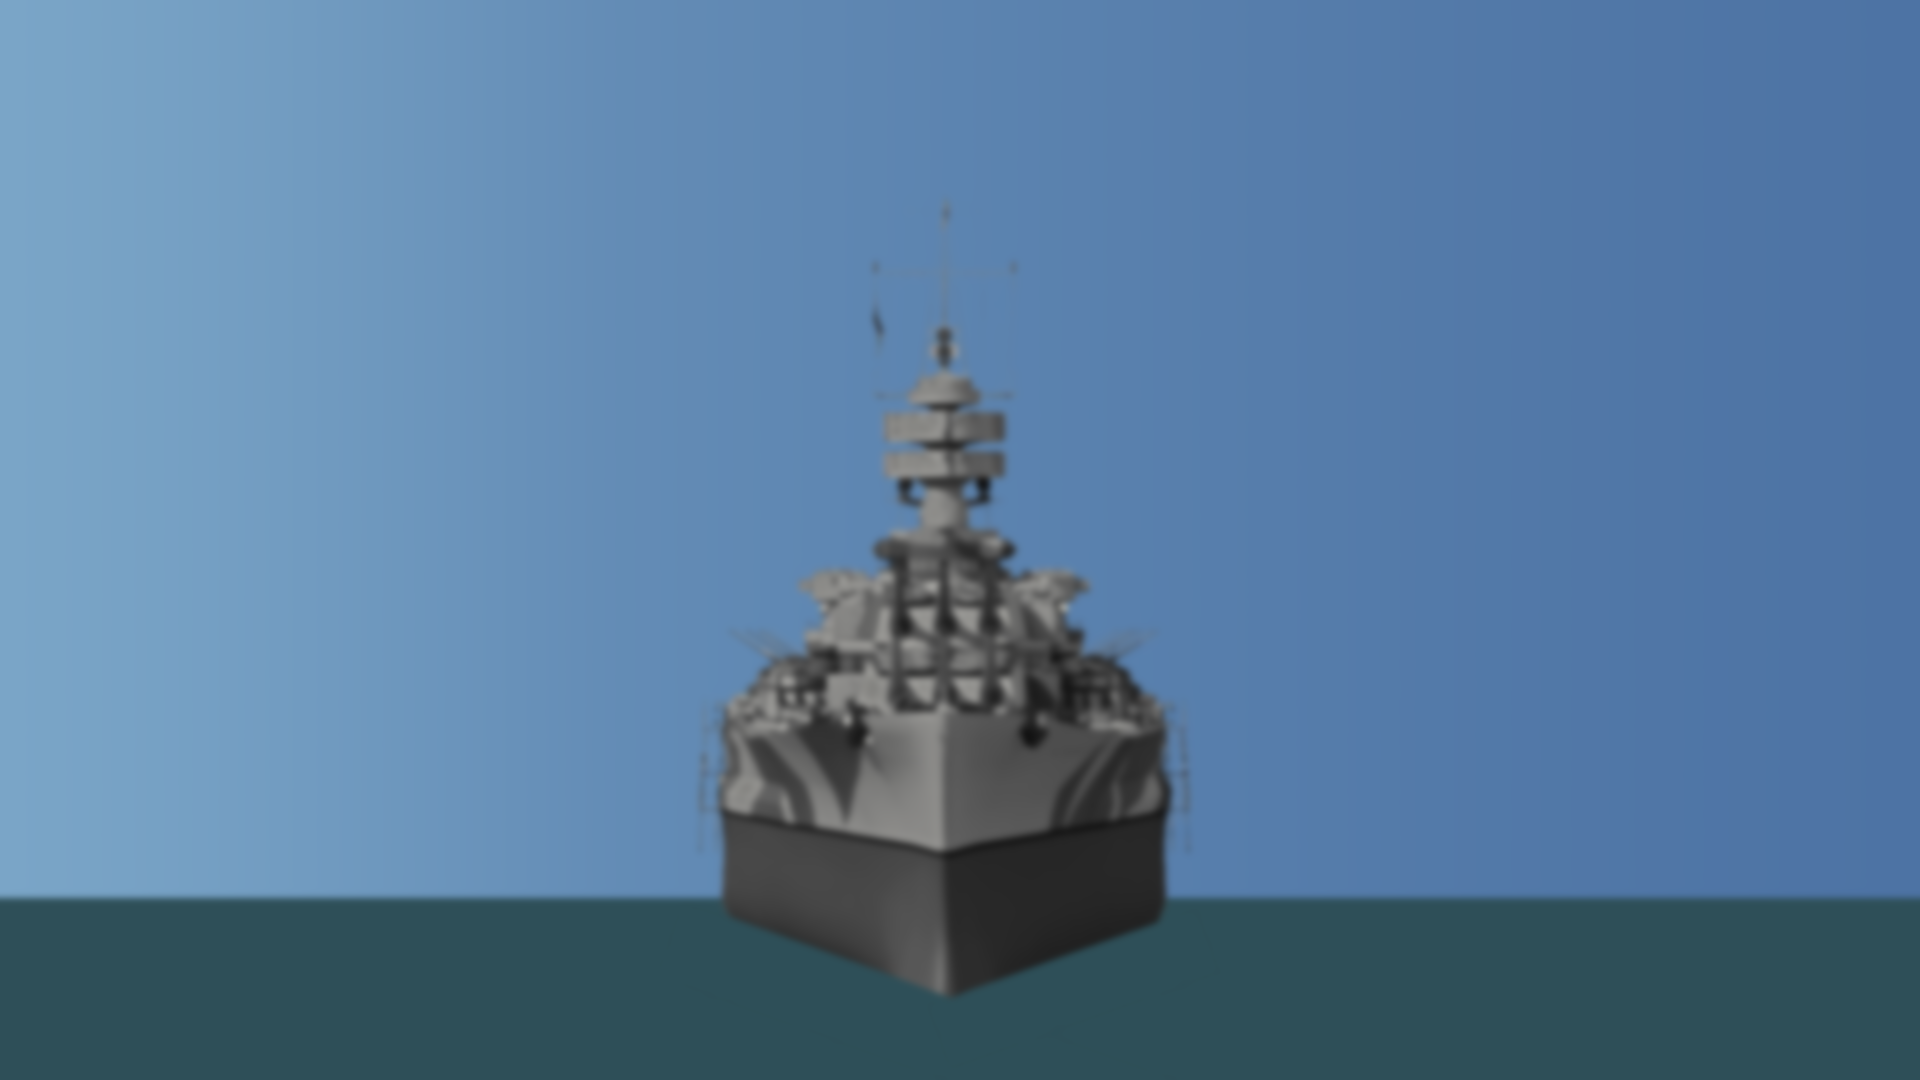
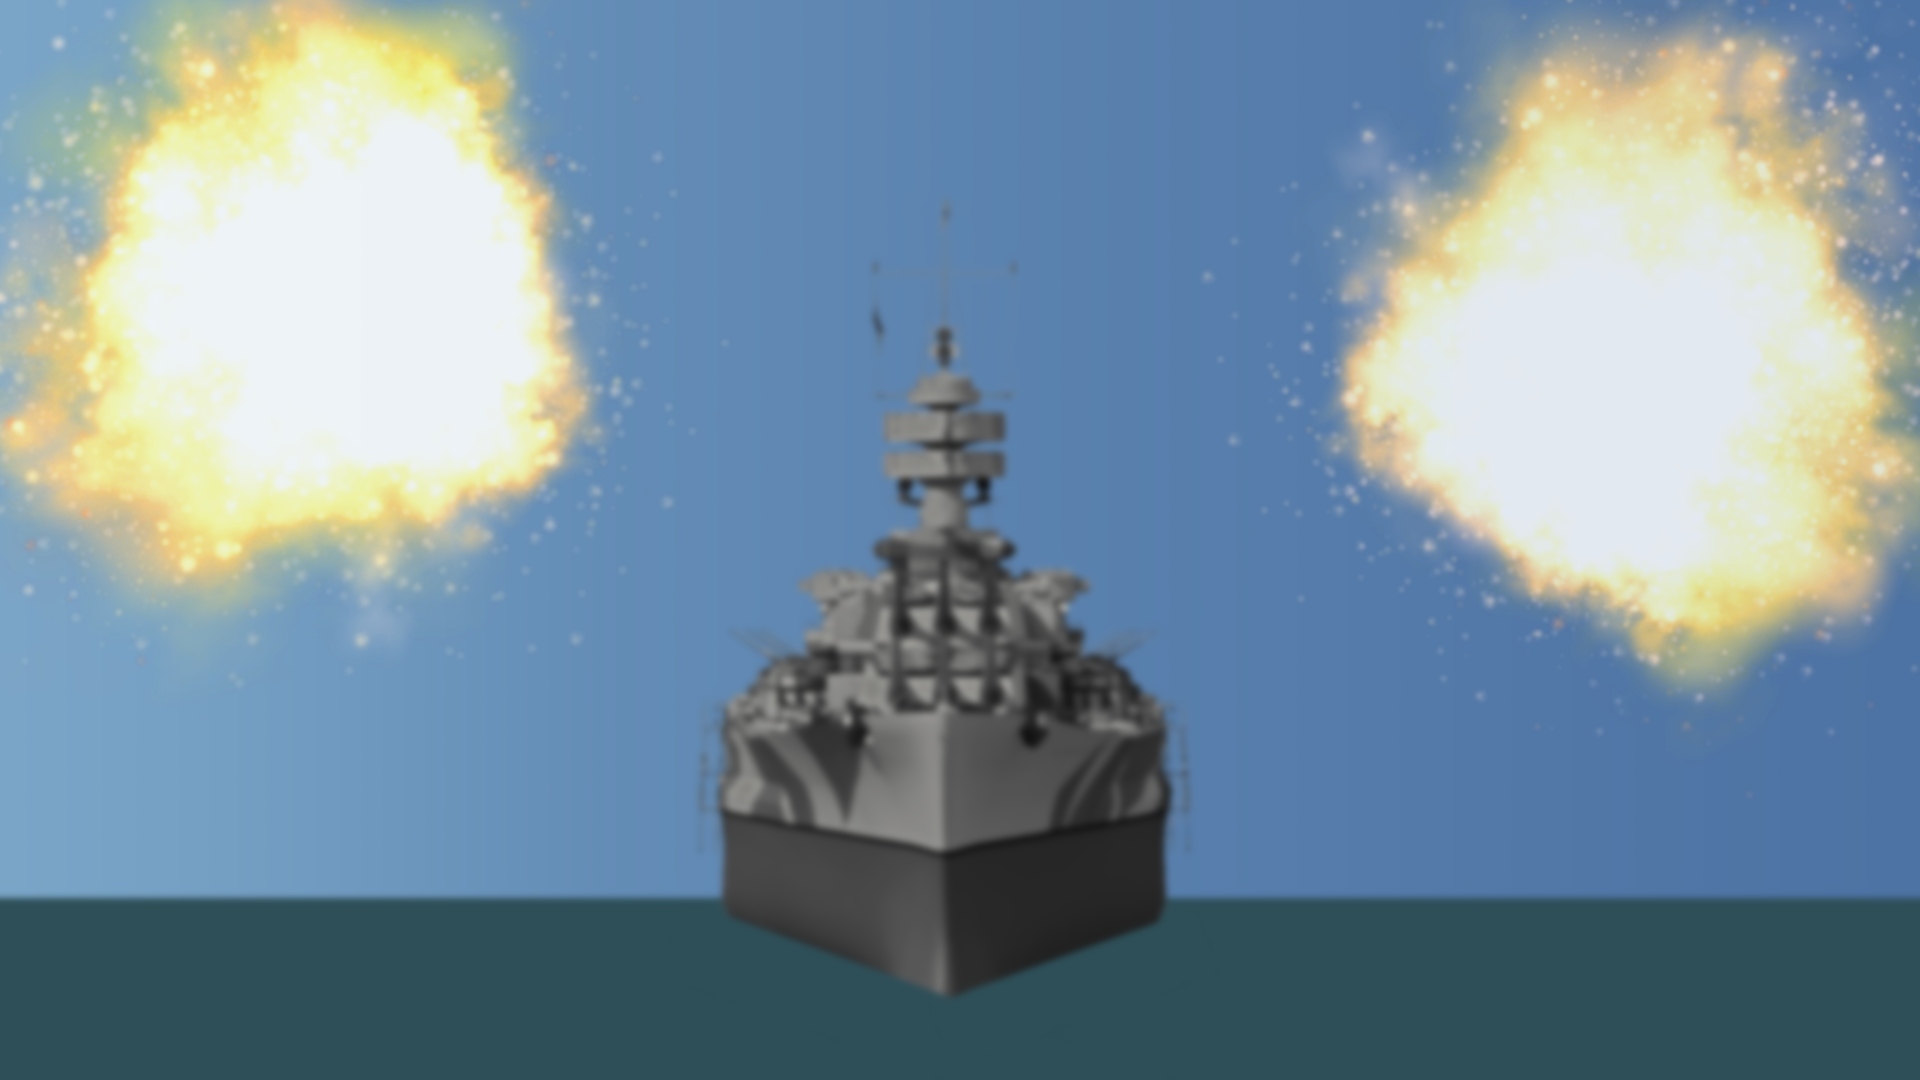
Cool background and html added.

Changed region(s): [[0.6875, 0.0, 1.0, 0.6417], [0.0, 0.0, 0.3438, 0.6111]]

diff --git a/BattleshipWebsite/WebContent/assets/css/index.css b/BattleshipWebsite/WebContent/assets/css/index.css
@@ -115,8 +115,23 @@ div#gameOutput {
 div#gameOutputText {
 	background-color: #000;
 	width: 95%;
+	max-width: 95%;
 	margin: 0 auto;
 	height: 75%;
+	overflow: auto;
+	color: grey;
+}
+
+p#consoleText {
+	padding: 5px 10px;
+	font-weight: bold;
+	margin: 0;
+}
+
+span#cursor {
+	padding: 1px 3px;
+	background-color: #fff;
+	margin: 10px;
 }
 
 div#highScoreContain {

diff --git a/BattleshipWebsite/WebContent/assets/js/console.js b/BattleshipWebsite/WebContent/assets/js/console.js
@@ -1,0 +1,21 @@
+$(function() {
+	
+	var $cursor = $('span#cursor');
+	
+	function cursor() {
+		
+		$cursor.animate({backgroundColor: '#fff'}, 600, 'linear',function(){
+			
+			$cursor.animate({backgroundColor: '#000'}, 400, 'linear',function() {
+				
+				//RECURSION!!!!!
+				cursor();
+				
+			});
+		});
+		
+	}
+	
+	cursor();
+	
+});

diff --git a/BattleshipWebsite/WebContent/assets/css/base.css b/BattleshipWebsite/WebContent/assets/css/base.css
@@ -84,5 +84,11 @@ footer p {
 	font-weight: bold;
 }
 
+.shadow {
+	-webkit-box-shadow: 2px 0px 30px 0px rgba(50, 50, 50, 0.32);
+	-moz-box-shadow:    2px 0px 30px 0px rgba(50, 50, 50, 0.32);
+	box-shadow:         2px 0px 30px 0px rgba(50, 50, 50, 0.32);
+}
+
 
 
